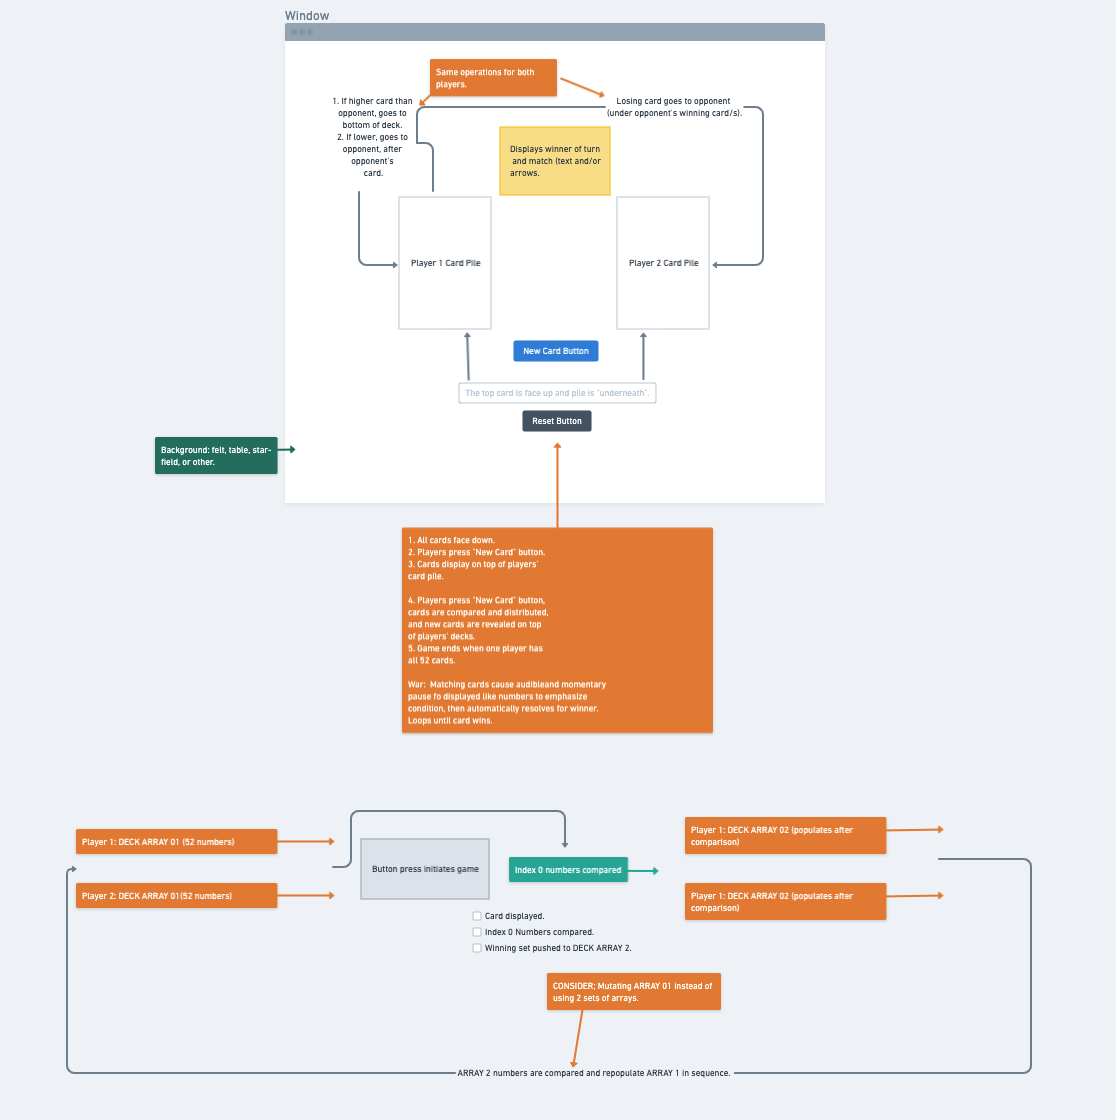
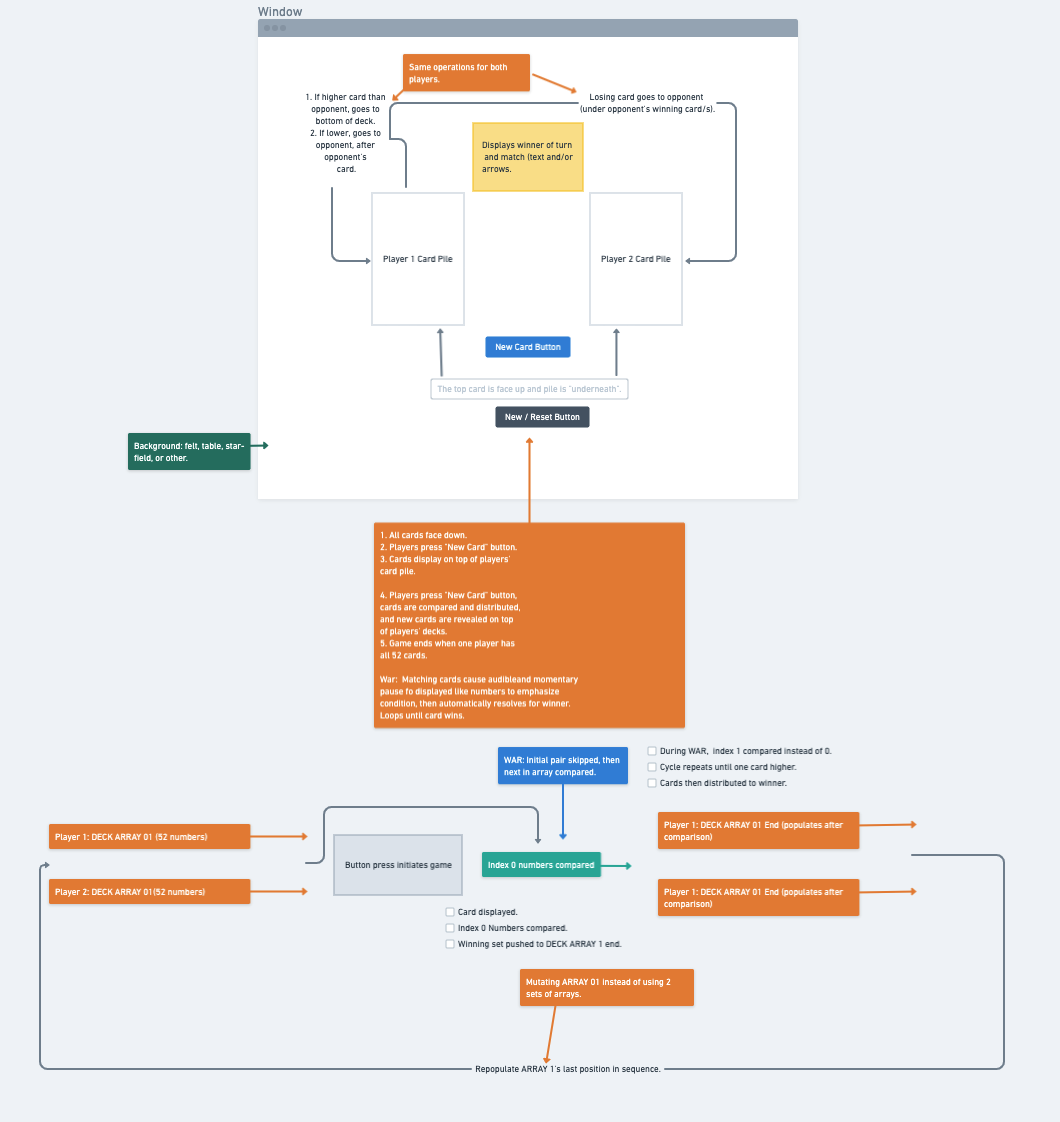
Updated warFrame

diff --git a/js/main.js b/js/main.js
@@ -30,7 +30,7 @@
 
 // FUNCTION 01: WAR: warCon(): If index 0 of player 1 array === index 0 of player 2 array, execute:
     // Option 01: Skip comparison of next numbers to be loaded into index 0 for comparison in both arrays and load numbers after that OR Option 02: compare index 1 numbers.
-    // Option 01 Only: Store skipped cards in "holding" array (warArray perhaps?).
+    // Option 01 (ONLY): Store skipped cards in "holding" array (warArray perhaps?).
     // FUNCTION 02 to decide winner AND "payout" of "holding" array to winner.
         // Order of "payout" of numbers / cards: winner revealed card, loser revealed card, winner "holding" array acending order (index 0, then 1...)
     // If tie, repeat FUNCTION 01.
